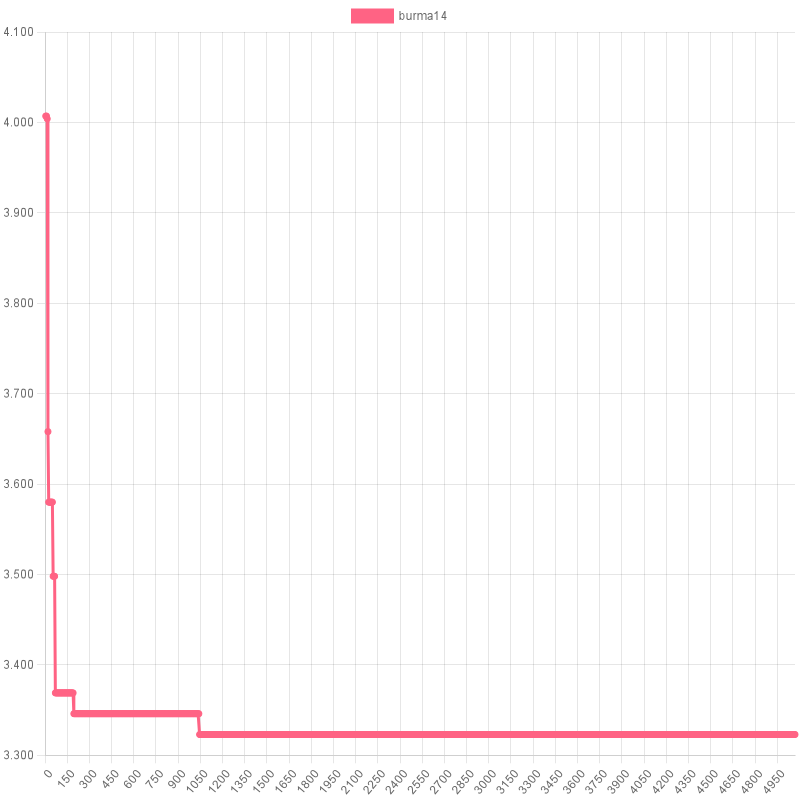
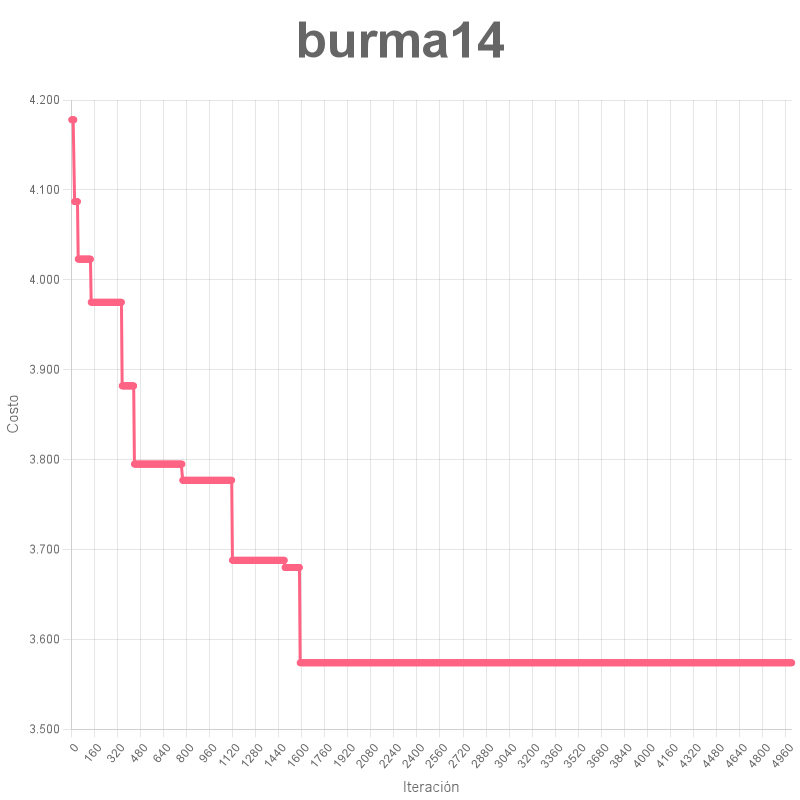
Refactor en exportacion de grafico de scoring

Changed region(s): [[0.0, 0.125, 1.0, 1.0], [0.3438, 0.0, 0.6562, 0.0938], [0.0312, 0.0312, 0.0625, 0.0625]]

diff --git a/src/utils/exporter.js b/src/utils/exporter.js
@@ -19,7 +19,6 @@ export const exportarGrafico = async (fileName, axisX, axisY) => {
       labels: axisX.values,
       datasets: [
         {
-          label: fileName,
           backgroundColor: "rgb(255, 99, 132)",
           borderColor: "rgb(255, 99, 132)",
           data: axisY.values,
@@ -48,6 +47,22 @@ export const exportarGrafico = async (fileName, axisX, axisY) => {
           ticks: {
             precision: 0,
           },
+        },
+      },
+      plugins: {
+        title: {
+          display: true,
+          text: fileName,
+          font: {
+            size: 50,
+          },
+          padding: {
+            top: 10,
+            bottom: 30,
+          },
+        },
+        legend: {
+          display: false,
         },
       },
     },

diff --git a/src/scoring.js b/src/scoring.js
@@ -185,14 +185,14 @@ const scoring = {
   [GRAFOS._137_NODOS]: Math.max(25, 5, 917, 6, 42, 1838), //Mejor costo encontrado: 115832
   [GRAFOS._150_NODOS]: Math.max(3, 10, 2093, 2, 29), //Mejor costo encontrado: 11657
   [GRAFOS._180_NODOS]: Math.max(21, 1, 2, 88, 3), //Mejor costo encontrado: 3480
-  [GRAFOS._198_NODOS]: Math.max(14, 380, 23, 9, 595), //Mejor costo encontrado: 26500
+  [GRAFOS._198_NODOS]: Math.max(14, 380, 23, 9, 595, 99), //Mejor costo encontrado: 26500
 };
 
 const grafos = Object.keys(scoring);
 const iteracionesMaximas = Object.values(scoring);
 
 exportarGrafico(
-  "scoring",
+  "Scoring",
   { label: "Grafo", values: grafos },
   { label: "Iteración", values: iteracionesMaximas }
 );

diff --git a/README.md b/README.md
@@ -1,4 +1,4 @@
-# TP Algoritmos - Metaheurísticas
+# **TP Algoritmos - Metaheurísticas**
 
 1. Proponer un algoritmo goloso para el problema del viajante de comercio.
 2. Aleatorizar el algoritmo anterior.
@@ -66,13 +66,11 @@ La idea fue obtener un aproximado a la cantidad de iteraciones que se necesitan 
 4. Se repiten los pasos anteriores una cantidad de veces suficiente para obtener una cantidad de iteraciones lógicas y medibles para el grafo.
 5. Una vez registrados todos los valores de las distintas ejecuciones, se selecciona al máximo de todos ellos.
 
-#### Ejemplos
-
-PONER IMAGENES DE REPORTES Y PRINTS DE EJECUCION EN CONSOLA
+Se adjuntan [gráficos de scoring](/src/graficos/Graficos.md) de las pruebas en cada uno de los grafos.
 
 Una vez realizados los reportes y obtenidas las cantidades finales para cada grafo, se generó el gráfico de scoring que determina la cantidad de iteraciones necesarias (eje Y) sobre cada grafo (eje X) que permite aproximar la cantidad de ejecuciones necesarias para encontrar un valor cercano al óptimo sin desperdiciar tiempo de cómputo.
 
-![Gráfico de scoring](/src/graficos/scoring.png)
+![Gráfico de scoring](/src/graficos/Scoring.png)
 
 ### Conclusiones
 
@@ -82,11 +80,18 @@ Al terminar las pruebas noté que mi porcentaje minimo de mejora aceptable fue m
 Además, no considerar mejoras de menor porcentaje afectó también a que no se reinicie el contador de reintentos una vez que se encontraba una mejora mínima, lo que generaba que el algoritmo "corte antes de tiempo".
 - ... 
 
+---
+
 ### Instructivo para exportar gráficos de scoring de un grafo
 
 1. Instalar dependencias:
    >npm install
-2. Indicar sobre qué grafo se va a ejecutar GRASP.
-   .........
-3. Ejecutar GRASP y exportar gráfico de reporte:
+
+2. Abrir archivo *index.js* e indicar sobre qué grafo de la batería ejecutar GRASP. Por ejemplo:
+   >const G = obtenerGrafo("./resources/tests/", GRAFOS_XML._198_NODOS);
+
+3. Determinar los parámetros de GRASP. Por ejemplo:
+   >const { solucion, grafico } = grasp(G, 50000, 5000, 3);
+
+3. Ejecutar GRASP y exportar gráfico de scoring:
    >npm start

diff --git a/src/graficos/Graficos.md b/src/graficos/Graficos.md
@@ -1,0 +1,3 @@
+<img src="grafos/burma14.png" width="350"/>
+
+COMPLETAR CON MÁS GRAFICOS
